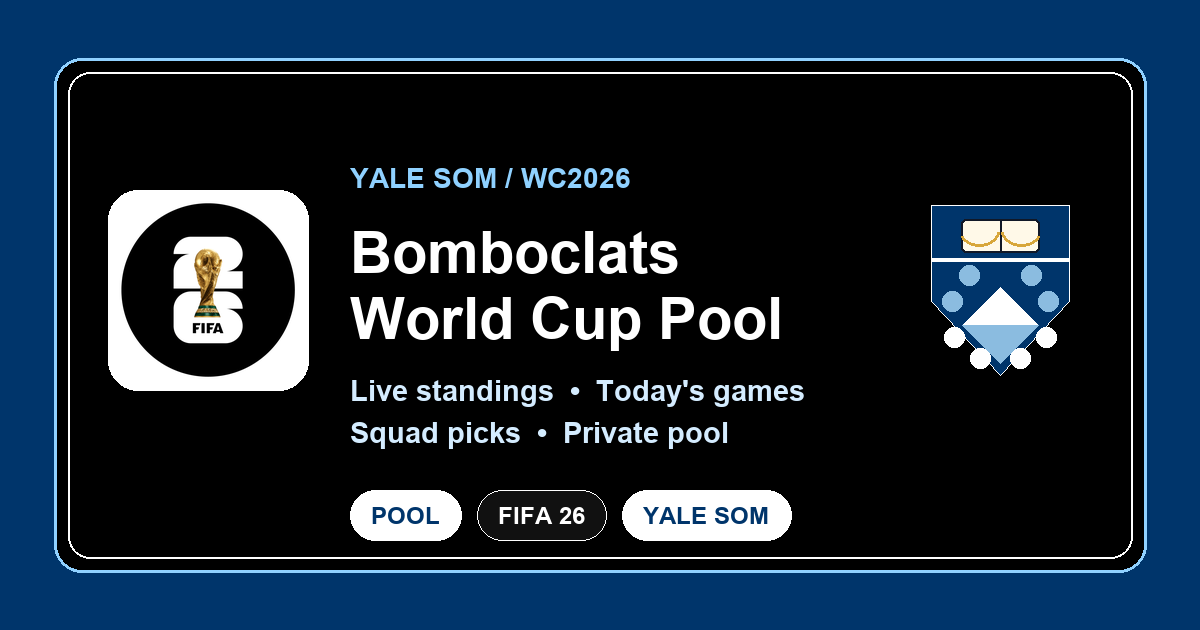
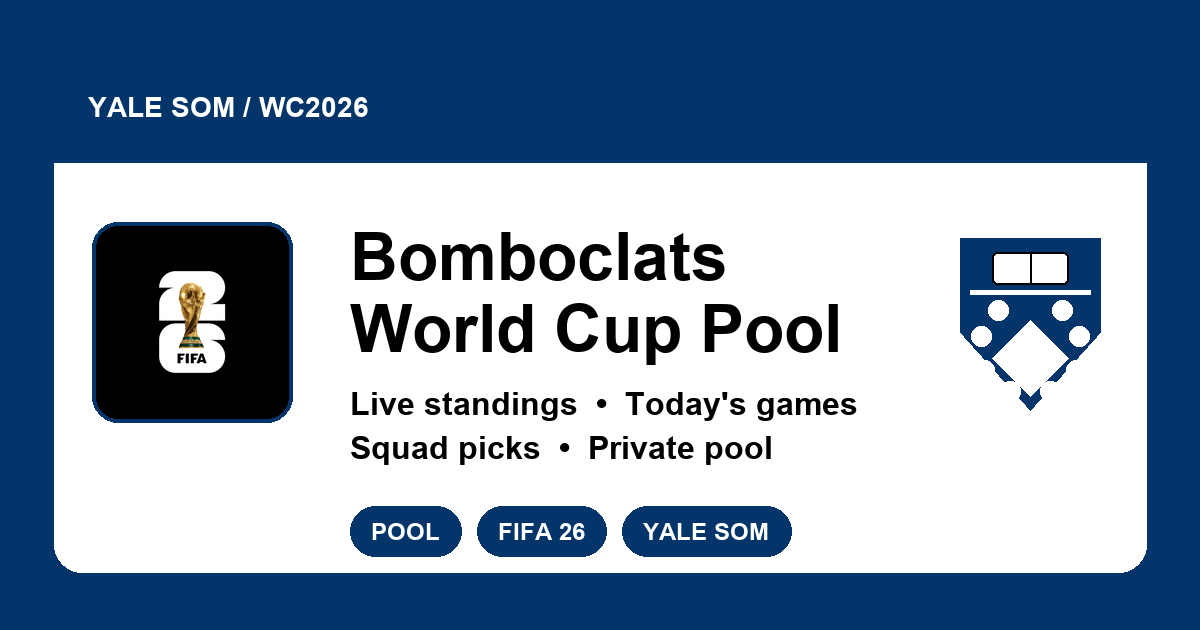
Lock interface to Yale navy palette

diff --git a/styles.css b/styles.css
@@ -3194,6 +3194,286 @@ body {
   }
 }
 
+/* Literal palette lock: navy, white, black, plus explicit content assets only. */
+:root {
+  --yale: #03346a;
+  --bg: #03346a;
+  --bg-2: #03346a;
+  --surface: #ffffff;
+  --surface-2: #ffffff;
+  --surface-3: #ffffff;
+  --paper: #ffffff;
+  --paper-2: #ffffff;
+  --paper-3: #ffffff;
+  --ink: #000000;
+  --muted: #000000;
+  --muted-2: #000000;
+  --fifa-ink: #000000;
+  --fifa-muted: #000000;
+  --fifa-line: #03346a;
+  --fifa-line-strong: #03346a;
+  --line: #03346a;
+  --line-strong: #03346a;
+  --blue: #03346a;
+  --green: #03346a;
+  --gold: #f5c542;
+  --red: #03346a;
+}
+
+body,
+.site-header,
+.tabs,
+.picks-mode-nav {
+  background: #03346a !important;
+}
+
+.brand {
+  background: #03346a;
+}
+
+.standings-panel,
+.scoreboard-panel,
+.summary-card,
+.player-card,
+.team-card,
+.rule-card,
+.score-card,
+.score-team,
+.standings-row,
+.drawer-panel,
+.drawer-profile,
+.drawer-summary,
+.drawer-stats div,
+.drawer-pick,
+.metric,
+.spotlight-item,
+.multiplier,
+.rule-step,
+.check-item,
+.team-compact-stats span,
+.leader-gap,
+.leader-tier-one,
+.leader-best-pick,
+.point-delta,
+.rank-movement,
+.profile-rank,
+.chip,
+.team-pill,
+.status-pill,
+.score-picker-name,
+.team-card .picked-player-chip,
+.player-card .pick-button,
+.control-select select,
+.search-wrap input,
+.empty-state {
+  border-color: #03346a;
+  background: #ffffff !important;
+  color: #000000;
+  box-shadow: none;
+}
+
+.standings-top,
+.scoreboard-head,
+.score-card-top,
+.score-card.is-live .score-card-top,
+.group-header,
+.drawer-panel::before,
+.drawer-action {
+  border-color: #ffffff;
+  background: #03346a !important;
+  color: #ffffff;
+}
+
+.standings-top *,
+.scoreboard-head *,
+.score-card-top *,
+.group-header *,
+.drawer-action {
+  color: #ffffff !important;
+}
+
+.standings-row.is-rank-1,
+.standings-row:hover,
+.score-team.is-winner,
+.score-card.is-live,
+.metric-primary,
+.player-card .pick-button:hover,
+.team-card .picked-player-chip:hover,
+.score-picker-name:hover,
+.score-team-link:hover {
+  border-color: #03346a;
+  background: #ffffff !important;
+  box-shadow: none;
+}
+
+.summary-card span,
+.summary-card small,
+.metric-label,
+.metric small,
+.team-meta,
+.team-story,
+.small-muted,
+.score-picker-empty,
+.score-pick-count,
+.control-select span,
+.search-wrap input::placeholder,
+.standings-person small,
+.leader-player span,
+.standings-note,
+.profile-rank,
+.picked-label,
+.spotlight-item b,
+.multiplier span,
+.team-compact-stats span,
+.team-compact-stats strong,
+.rule-step strong,
+.rule-step p,
+.rule-list li,
+.score-row,
+.check-item,
+.empty-state,
+.headline-card h3,
+.headline-card p:not(.eyebrow),
+.headline-player strong,
+.headline-player span,
+.headline-player em,
+.headline-pick,
+.headline-player {
+  color: #000000 !important;
+}
+
+.standings-person strong,
+.leader-player strong,
+.summary-card strong,
+.metric strong,
+.spotlight-item strong,
+.multiplier strong,
+.player-title h3,
+.team-card h3,
+.rule-card h3,
+.score-team-link .country-name,
+.score-team strong,
+.score-team b,
+.team-price,
+.team-pill .price,
+.pick-points,
+.country-name {
+  color: #000000;
+}
+
+.tab,
+.picks-mode-button,
+.segment {
+  color: #ffffff;
+}
+
+.tab.is-active,
+.picks-mode-button.is-active,
+.segment.is-active,
+.standings-panel .segment.is-active {
+  border-color: #ffffff;
+  background: #ffffff !important;
+  color: #03346a !important;
+}
+
+.standings-panel .segment {
+  color: #ffffff;
+}
+
+.rank-badge {
+  border-color: #03346a;
+  background: #ffffff;
+  color: #000000;
+}
+
+.is-rank-1 .rank-badge {
+  background: #f5c542 !important;
+  color: #000000;
+}
+
+.is-rank-2 .rank-badge {
+  background: #cbd5e1 !important;
+  color: #000000;
+}
+
+.is-rank-3 .rank-badge {
+  background: #d99058 !important;
+  color: #000000;
+}
+
+.avatar-wrap {
+  border: 3px solid #03346a;
+  background: #ffffff !important;
+  box-shadow: none;
+}
+
+.avatar-wrap img,
+.initials-avatar,
+.mini-avatar,
+.leader-player img {
+  border-color: #ffffff;
+  background: #ffffff;
+  box-shadow: 0 0 0 2px #03346a;
+}
+
+.headline-card {
+  border-color: #ffffff;
+  background: #ffffff !important;
+  color: #000000;
+  box-shadow: none;
+}
+
+.headline-card .eyebrow {
+  border: 1px solid #03346a;
+  background: #03346a !important;
+  color: #ffffff !important;
+}
+
+.headline-pick,
+.headline-player,
+.headline-player em {
+  border-color: #03346a;
+  background: #ffffff !important;
+}
+
+.headline-player .mini-avatar {
+  border-color: #ffffff;
+  box-shadow: 0 0 0 4px #03346a;
+}
+
+.headline-rail,
+.headline-rail::-webkit-scrollbar-track {
+  background: #03346a;
+}
+
+.headline-rail::-webkit-scrollbar-thumb {
+  background: #ffffff;
+}
+
+.team-flag {
+  border-color: #03346a;
+  background: #ffffff;
+}
+
+.inline-flag {
+  background: #ffffff;
+  box-shadow: 0 0 0 1px #03346a;
+}
+
+.control-select::after {
+  border-color: #03346a;
+}
+
+.drawer-backdrop {
+  background: rgba(3, 52, 106, 0.76);
+}
+
+.drawer-close {
+  border-color: #03346a;
+  background: #ffffff;
+  color: #000000;
+}
+
 @media (prefers-reduced-motion: reduce) {
   *,
   *::before,

diff --git a/index.html b/index.html
@@ -17,7 +17,7 @@
     <meta name="twitter:description" content="Yale SOM's private World Cup 2026 pool with live standings, today's games, and squad picks.">
     <meta name="twitter:image" content="https://theomorton.github.io/bomboclats-world-cup-pool/assets/social-card.png">
     <title>Bomboclats World Cup Pool</title>
-    <link rel="stylesheet" href="styles.css?v=crisp-yale-contrast">
+    <link rel="stylesheet" href="styles.css?v=literal-yale-palette">
   </head>
   <body>
     <header class="site-header">
@@ -166,9 +166,9 @@
     <div id="detail-drawer" class="detail-drawer" aria-hidden="true"></div>
 
     <script src="data/teams.js?v=dr-congo-flag"></script>
-    <script src="data/players.js?v=crisp-yale-contrast"></script>
+    <script src="data/players.js?v=literal-yale-palette"></script>
     <script src="data/results.js"></script>
     <script src="data/schedule.js"></script>
-    <script src="app.js?v=crisp-yale-contrast"></script>
+    <script src="app.js?v=literal-yale-palette"></script>
   </body>
 </html>